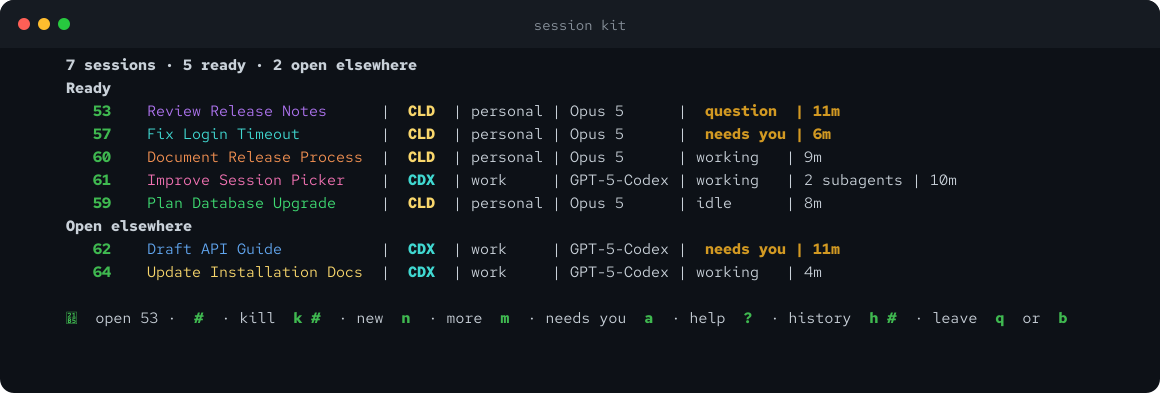
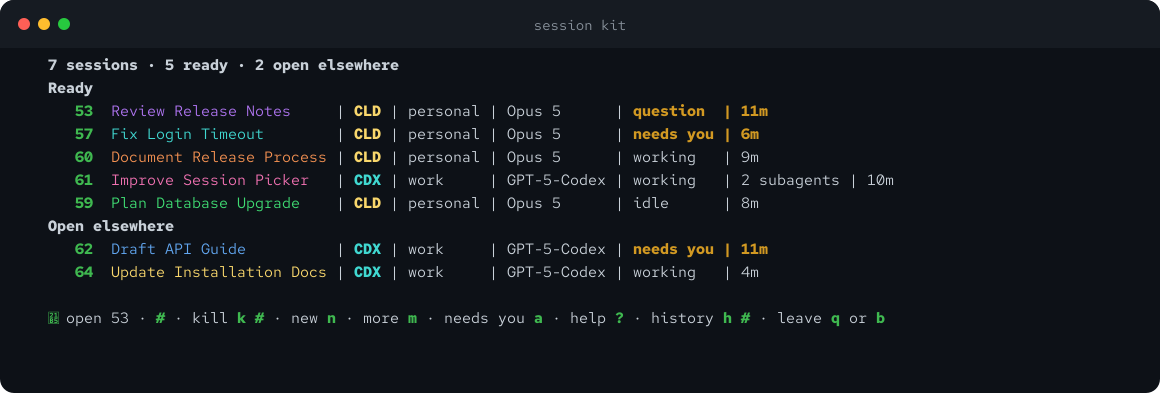
Reader-facing polish: internal voice out of README and picker docs, screenshot columns pinned to the character grid

diff --git a/README.md b/README.md
@@ -17,10 +17,10 @@ everything else is guardrails around it.
 ## What it is
 
 Every session gets a number, a useful name, a colour, a model, a state, and an
-exact provider identity. One list holds all of them. Nothing asks for
-confirmation: guards run first, the action is refused when the evidence is not
-good enough, and a completed action says what happened. A close is recoverable
-from Closed sessions.
+exact provider identity. One list holds all of them. Guards run before every
+action: anything without good enough evidence is refused with the reason, and
+a completed action says what happened. A close is recoverable from Closed
+sessions.
 
 Session Kit also supplies guarded account and model changes, optional local
 history, per-session colours, project shortcuts, health checks, immutable local
@@ -36,8 +36,9 @@ update beacon, or telemetry.
 ## The picker
 
 Type `kit` from an ordinary shell. Ready sessions appear before sessions that
-are open elsewhere; attention decides the order inside each group. Machine
-sessions such as drills and workers stay behind one counted row.
+are open elsewhere, and sessions waiting on you sort first inside each group.
+Machine-started sessions (background workers and health checks) stay behind
+one counted row.
 
 Enter takes the most likely option on every screen:
 
@@ -62,9 +63,9 @@ use the same state words and safety checks.
 | `idle` | A needs-you transcript has not moved for the configured window, 30 minutes by default. |
 | `pending` | The kit cannot currently read the value; this is a placeholder, not a state. |
 
-An unreadable `<state>/session-idle-minutes` file disables the `idle` label
-instead of guessing. `sp detail` also shows live child shells and workers that
-are at least an hour old, with their age.
+An unreadable idle-window setting disables the `idle` label instead of
+guessing. `sp detail` also shows live child shells and workers that are at
+least an hour old, with their age.
 
 A picker already running during an upgrade reloads itself from the new release
 at a safe refresh point and keeps its view. If the new launcher cannot start,
@@ -132,10 +133,9 @@ re-enables a timer you disabled and never restarts the session manager. On
 macOS it refreshes an already loaded kit watchdog. `session-kit services
 enable` starts the full reviewed set.
 
-Install and upgrade also seed the collection-order floor when an older
-installation has none. The seed is copied exactly from trusted current state;
-if that state cannot be proved, activation refuses and prints the exact
-installed recovery command instead of inventing a value.
+Upgrading an older installation repairs its internal ordering state
+automatically. When that state cannot be proved, activation refuses and
+prints the exact recovery command instead of inventing a value.
 
 For requirements, manual downloads, shell integration, and activation checks,
 read [Install Session Kit](docs/install.md).
@@ -169,7 +169,7 @@ The display has four distinct pieces:
 Claude quota-refresher contract, Codex behaviour, title ownership, palettes,
 and terminal fallback in full.
 
-## Day 2
+## Maintenance
 
 The maintenance surface stays small:
 

diff --git a/docs/picker-navigation.md b/docs/picker-navigation.md
@@ -47,8 +47,8 @@ secondary view, and finally leaves when nothing remains to clear or back out
 of. `q` leaves from an unfiltered home screen, and `Ctrl-D` leaves from
 anywhere.
 
-Nothing asks for confirmation. Guards run before the action, and the next line
-says what happened. A refusal changes nothing.
+Guards run before the action, and the next line says what happened. A refusal
+changes nothing.
 
 ## The key-driven picker
 
